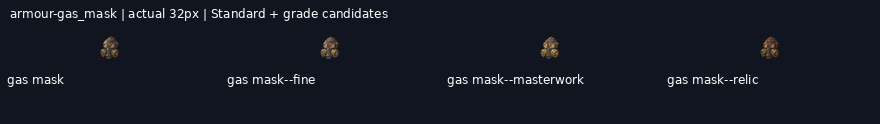
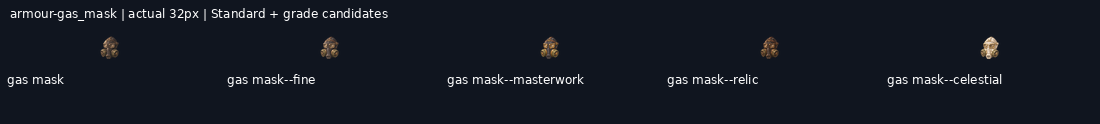
art: draw armour-gas_mask--celestial grade candidate

diff --git a/art/_archive/gear/2026-11-19-kept-blade-grades/HANDOFF.md b/art/_archive/gear/2026-11-19-kept-blade-grades/HANDOFF.md
@@ -1,6 +1,6 @@
 # Gear grade candidates
 
-**120/152 grade candidates delivered** on `art/2026-11-19-kept-blade-grades`. Shared mailbox: https://github.com/leonpentastorm/Project-Heaven-Cry/issues/3 . See claim.json for this lane’s current Standards. Released overlapping blades reuse12 peer candidates, with3 local alternatives archived.
+**121/152 grade candidates delivered** on `art/2026-11-19-kept-blade-grades`. Shared mailbox: https://github.com/leonpentastorm/Project-Heaven-Cry/issues/3 . See claim.json for this lane’s current Standards. Released overlapping blades reuse12 peer candidates, with3 local alternatives archived.
 
 Leon requested continuous candidate production; proof approval is not fabricated. All candidates remain review-candidate, production_approved:false, implementation_ready:false, with outline.review_required:true. Exact outline is measured, never asserted unless the masks match. Per-image registration is uniform scaling/translation only, without warp, silhouette masks, filled pixels or code-drawn substitutes. The generated native remains untouched.
 
@@ -10,12 +10,12 @@ Tomorrow: fetch this branch and develop safely, read the latest issue 3 comments
 
 Peer audit: [coordination/peer-audit-2026-11-19.md](coordination/peer-audit-2026-11-19.md). Peer58 masters/232 exports and12 canonical imports are integrated with versioned alpha<8 cleanup; originals are retained. See coordination/peer-import-v2/manifest.json and post-catalog VALIDATION.json (strict margins pass, solid alpha unchanged). Peer quota resets20 November2026 at09:45:39 Bangkok time; this does not establish this session’s quota.
 
-Remaining: weapon-ork_machete--masterwork, weapon-ork_machete--relic, weapon-ork_machete--celestial, weapon-war_axe--fine, weapon-war_axe--masterwork, weapon-war_axe--relic, weapon-war_axe--celestial, armour-gas_mask--celestial, weapon-parlour_pistol--fine, weapon-parlour_pistol--masterwork, weapon-parlour_pistol--relic, weapon-parlour_pistol--celestial, weapon-lever_carbine--fine, weapon-lever_carbine--masterwork, weapon-lever_carbine--relic, weapon-lever_carbine--celestial, weapon-sawn_off--fine, weapon-sawn_off--masterwork, weapon-sawn_off--relic, weapon-sawn_off--celestial, weapon-coach_gun--fine, weapon-coach_gun--masterwork, weapon-coach_gun--relic, weapon-coach_gun--celestial, weapon-legion_bullpup--fine, weapon-legion_bullpup--masterwork, weapon-legion_bullpup--relic, weapon-legion_bullpup--celestial, weapon-whisper_smg--fine, weapon-whisper_smg--masterwork, weapon-whisper_smg--relic, weapon-whisper_smg--celestial.
+Remaining: weapon-ork_machete--masterwork, weapon-ork_machete--relic, weapon-ork_machete--celestial, weapon-war_axe--fine, weapon-war_axe--masterwork, weapon-war_axe--relic, weapon-war_axe--celestial, weapon-parlour_pistol--fine, weapon-parlour_pistol--masterwork, weapon-parlour_pistol--relic, weapon-parlour_pistol--celestial, weapon-lever_carbine--fine, weapon-lever_carbine--masterwork, weapon-lever_carbine--relic, weapon-lever_carbine--celestial, weapon-sawn_off--fine, weapon-sawn_off--masterwork, weapon-sawn_off--relic, weapon-sawn_off--celestial, weapon-coach_gun--fine, weapon-coach_gun--masterwork, weapon-coach_gun--relic, weapon-coach_gun--celestial, weapon-legion_bullpup--fine, weapon-legion_bullpup--masterwork, weapon-legion_bullpup--relic, weapon-legion_bullpup--celestial, weapon-whisper_smg--fine, weapon-whisper_smg--masterwork, weapon-whisper_smg--relic, weapon-whisper_smg--celestial.
 
 Service-rejected requests (do not repeatedly resubmit): weapon-ork_machete--masterwork, weapon-war_axe--fine.
 
 Waiting on rejected prerequisites: weapon-ork_machete--celestial, weapon-ork_machete--relic, weapon-war_axe--celestial, weapon-war_axe--masterwork, weapon-war_axe--relic.
 
-Ready independent next steps, in queue order: armour-gas_mask--celestial, weapon-parlour_pistol--fine, weapon-lever_carbine--fine, weapon-sawn_off--fine, weapon-coach_gun--fine, weapon-legion_bullpup--fine, weapon-whisper_smg--fine. Other pending grades follow their preceding grade.
+Ready independent next steps, in queue order: weapon-parlour_pistol--fine, weapon-lever_carbine--fine, weapon-sawn_off--fine, weapon-coach_gun--fine, weapon-legion_bullpup--fine, weapon-whisper_smg--fine. Other pending grades follow their preceding grade.
 
 Runtime handoff: implementation_ready:false records review status but does not gate the web asset builder. The builder emits grade asset keys; the current UI gear resolver still needs grade-aware selection. Do not claim that runtime grade selection is implemented by these art deliveries.
